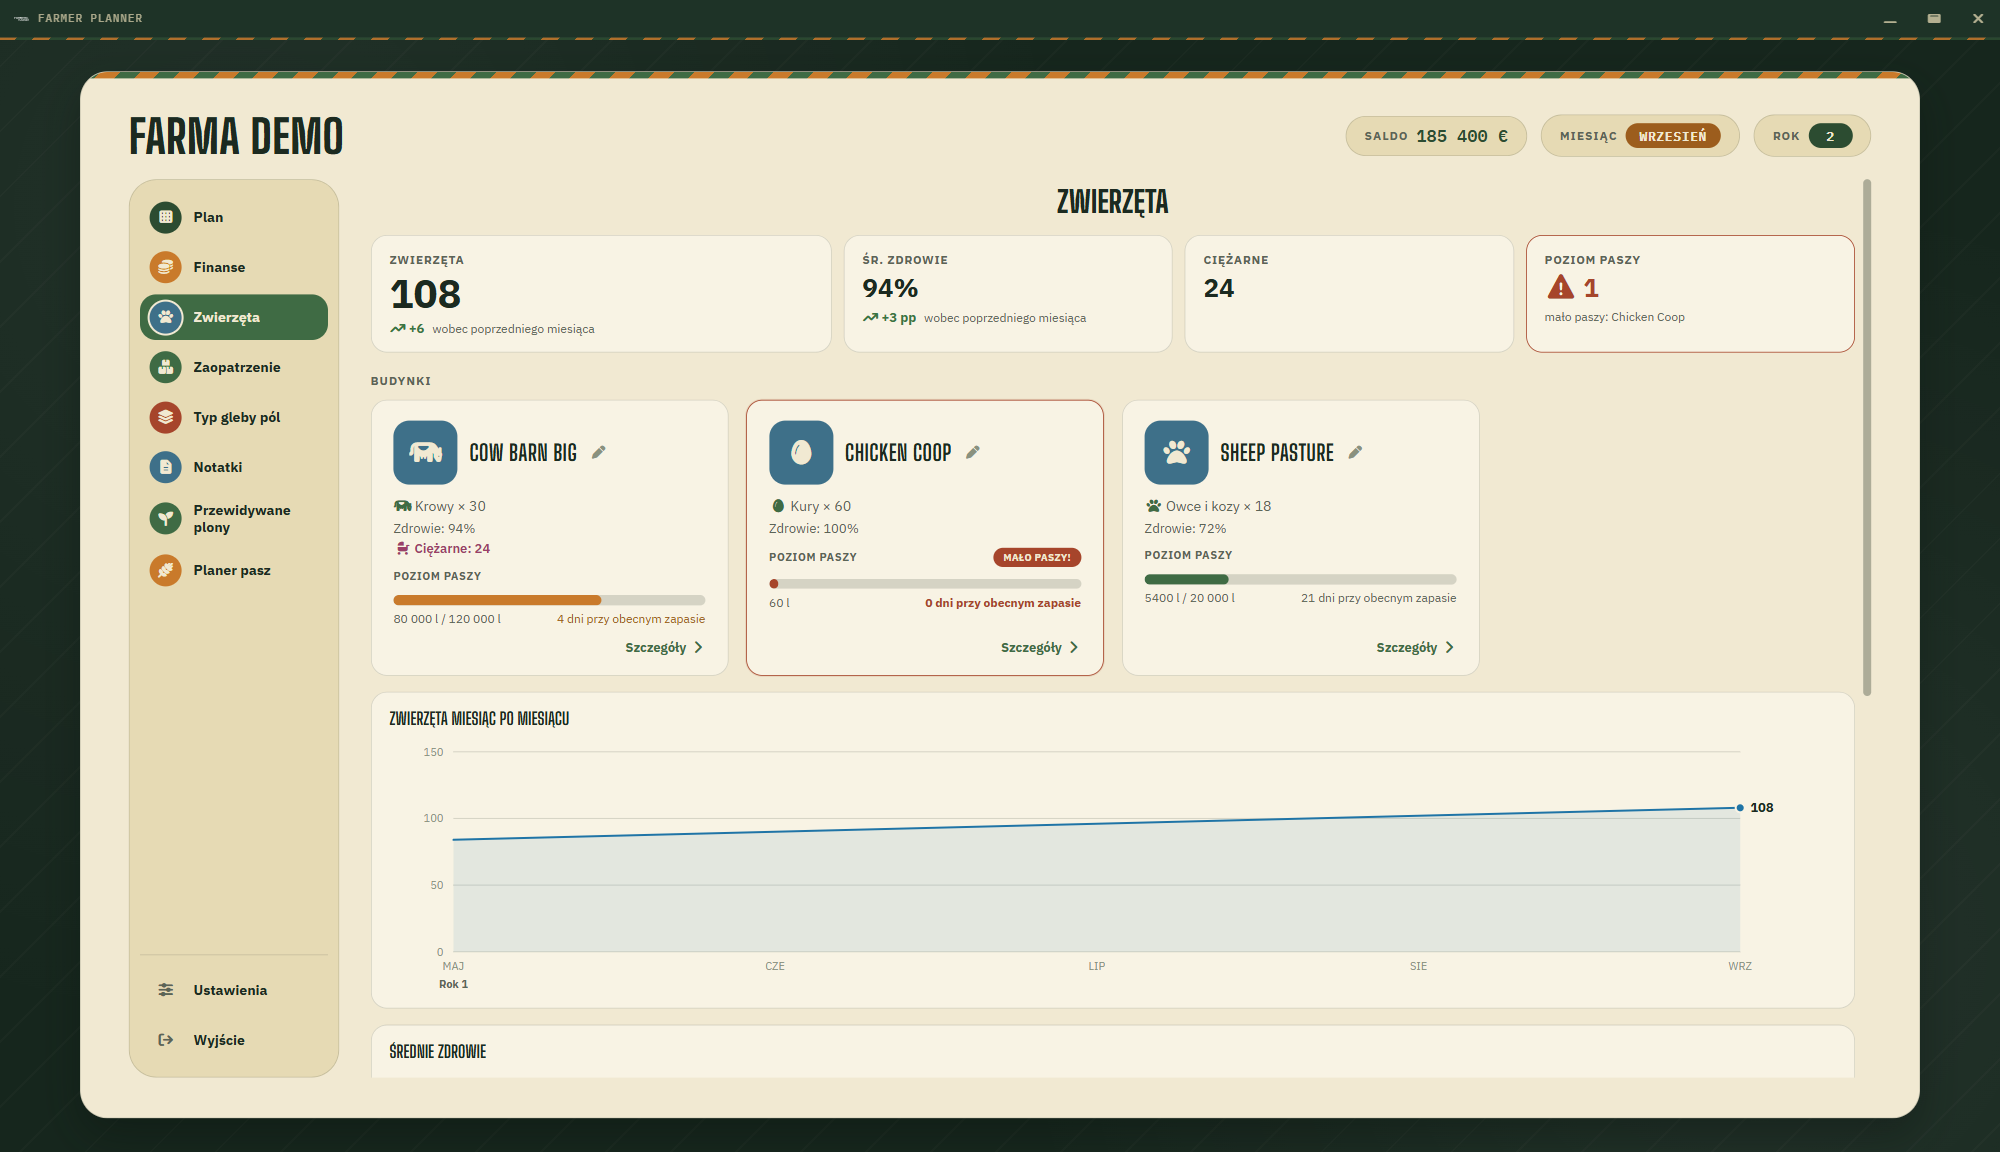
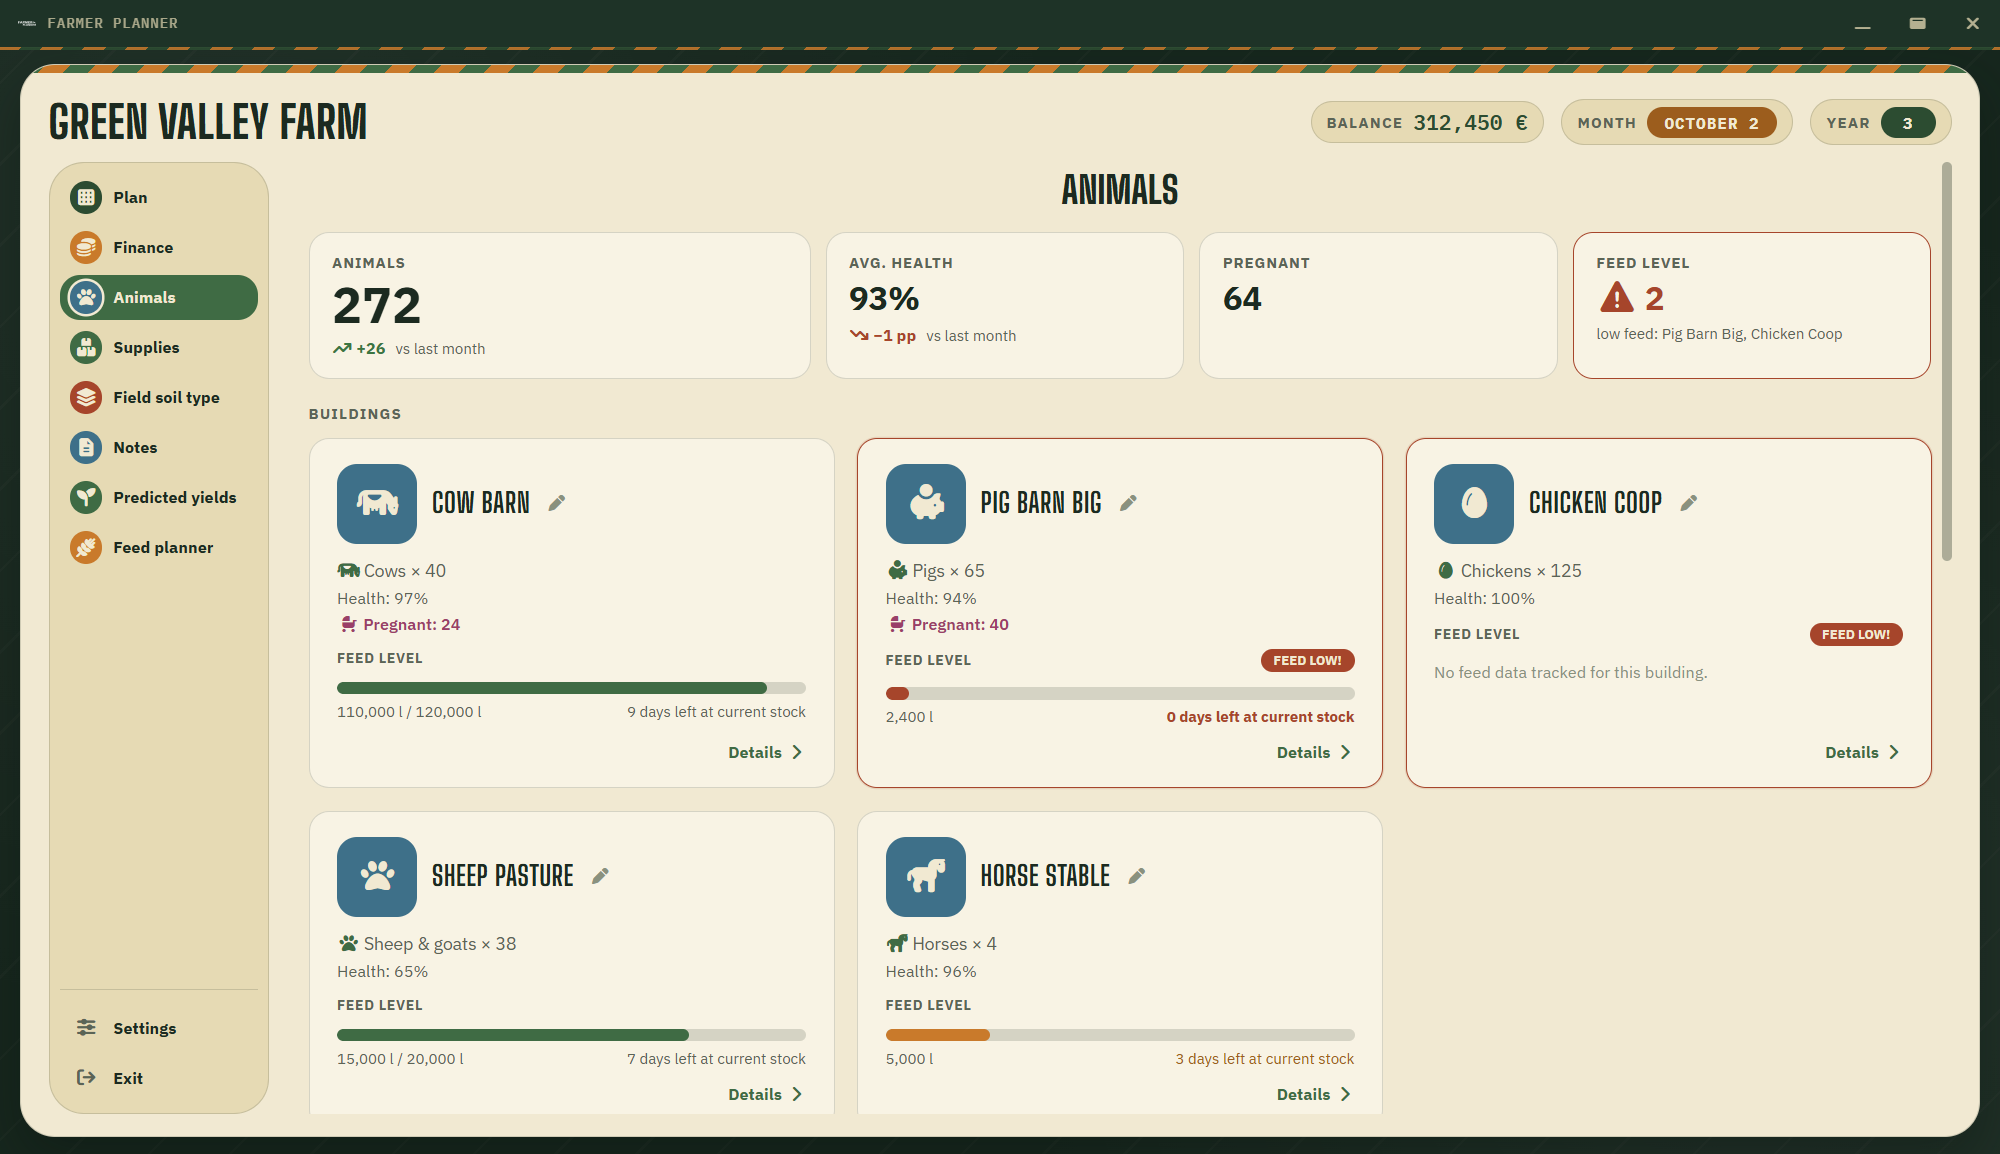
Rewrite the README in the website's layout and link to farmerplanner.pl

diff --git a/README.pl.md b/README.pl.md
@@ -1,21 +1,84 @@
 <p align="center">
-  <img src="Assets/Logo.png" alt="Farmer Planner" width="360">
+  <picture>
+    <source media="(prefers-color-scheme: dark)" srcset="Assets/Logo.svg">
+    <img src="docs/logo-light.svg" alt="Farmer Planner" width="360">
+  </picture>
+</p>
+
+<h3 align="center">Wiesz, czego każde pole potrzebuje w tym miesiącu.</h3>
+
+<p align="center">
+  Darmowy planer sezonów do <b>Farming Simulator 25 (FS25)</b>. Czyta Twój zapis gry i trzyma pola, uprawy,<br>
+  nawozy, zwierzęta i paszę w jednym planie, odświeżanym przy każdym zapisie gry.
 </p>
 
 <p align="center">
-  Planer sezonu dla <b>Farming Simulator 25</b> — pola, uprawy, nawożenie, zwierzęta i pasze w jednym miejscu,<br>
-  zsynchronizowane z Twoim zapisem gry.
+  <a href="https://github.com/WiktorParylak/farmer-planner/releases"><img alt="Pobierz na Windows" src="https://img.shields.io/badge/Pobierz-Windows-C97A2B?style=for-the-badge&logo=windows&logoColor=white"></a>
+  <a href="https://farmerplanner.pl/pl/"><img alt="Strona: farmerplanner.pl" src="https://img.shields.io/badge/Strona-farmerplanner.pl-3F6B44?style=for-the-badge"></a>
+  <a href="https://github.com/WiktorParylak/farmer-planner/releases"><img alt="Najnowsza wersja" src="https://img.shields.io/github/v/release/WiktorParylak/farmer-planner?include_prereleases&style=for-the-badge&label=wersja&color=16261D"></a>
 </p>
 
 <p align="center">
   <a href="README.md">English</a> | <b>Polski</b>
 </p>
 
----
+![Plan sezonu: tabela pól z uprawą, miesiącem siewu, stanem i planem nawożenia](docs/screenshot-plan.png)
 
-![Widok planu](docs/screenshot-plan.png)
+## Jeden plan na całe gospodarstwo
 
-## Funkcje
+**Plan sezonu**
+- Każde pole z powierzchnią, uprawą, miesiącem siewu, stanem, orką lub bezorką, typem gleby i planem nawożenia.
+- Międzyplony na tym samym polu, przed albo po głównej uprawie.
+- Historia sezonów: wrócisz do poprzednich i porównasz.
+- Ostrzeżenia o płodozmianie i podsumowanie hektarów każdej uprawy.
+
+**Zsynchronizowany z grą**
+- Saldo, kredyty, czas gry, maszyny i zwierzęta prosto z zapisu gry.
+- Odświeża się sam przy każdym zapisie gry, także automatycznym.
+- Uprawy i kalendarz siewu czytane z moda mapy.
+- Gleby pól z Precision Farming, prosto z zapisu.
+
+**Narzędzia**
+- Finanse miesiąc po miesiącu i sezon po sezonie.
+- Zaopatrzenie: ile nasion i nawozu kupić na sezon.
+- Przewidywane plony.
+- Notatki przypięte do miesięcy, z tagami i listą do odhaczania.
+
+## Zwierzęta i pasza policzone
+
+Kafelek dla każdego budynku: stado według rasy i wieku, na ile dni starczy paszy, dzienne zapotrzebowanie, produkcja i ciąże. Planer pasz powie, czego brakuje i ile hektarów obsiać, a kalkulator wozu paszowego sprawdzi mieszankę z przepisem TMR z gry.
+
+Działa z AnimalFoodCalculator i EnhancedAnimalSystem i pokazuje obrazki ras z Twoich modów.
+
+![Panel zwierząt: kafelek dla każdego budynku ze stadem, poziomem paszy i produkcją](docs/screenshot-animals.png)
+
+## Pierwsze kroki
+
+1. Pobierz instalator z zakładki [Releases](https://github.com/WiktorParylak/farmer-planner/releases) i uruchom go. Nic więcej nie trzeba instalować.
+2. Kliknij **Dodaj farmę** i wpisz nazwę farmy i mapy.
+3. Otwórz farmę, wejdź w **Ustawienia** i wskaż plik `careerSavegame.xml` swojego zapisu, np.
+   `Dokumenty\My Games\FarmingSimulator2025\savegame1\careerSavegame.xml`.
+4. Włącz automatyczną synchronizację i kliknij **Zapisz i importuj**.
+5. Planuj pola. Planer nadąża za Tobą, kiedy grasz.
+
+Mody są wyszukiwane w folderze `mods` obok zapisu gry, w folderze ustawionym w `gameSettings.xml` gry oraz w kolekcjach FSG Mod Assistanta. Stamtąd automatycznie wczytywane są też obrazki ras. Zwierzęta z podstawowej gry (spakowane w archiwach gry) są pokazywane jako ikony.
+
+## Pytania
+
+**Czy zmienia mój zapis gry?**
+Nie. Farmer Planner tylko czyta pliki gry i nigdy do nich nie zapisuje.
+
+**Jakie mapy i mody obsługuje?**
+Każdą mapę: uprawy i kalendarz są czytane z moda mapy, której używa zapis. Rozumie też Precision Farming, AnimalFoodCalculator, EnhancedAnimalSystem, Animal Package (vanilla edition), Bank And Credit i Enhanced Loan System.
+
+**Gdzie są zapisane moje farmy?**
+W `Dokumenty\Farmer Planner`, więc łatwo je znaleźć, skopiować albo zarchiwizować. Aplikacja umie też wyeksportować i zaimportować kopię zapasową farmy.
+
+**Czy działa w trybie wieloosobowym?**
+Tak. W zapisie z kilkoma farmami wybierasz w Ustawieniach swoją, a planer czyta tylko jej pieniądze, ziemię, zwierzęta i paszę.
+
+<details>
+<summary><b>Pełna lista funkcji</b></summary>
 
 **Plan sezonu**
 - Tabela pól: numer pola (kilka pól można połączyć w jeden wiersz, np. `69-70-71`), hektary, uprawa, miesiąc siewu, stan (do posadzenia / sadzić teraz / posadzone), orka lub bezorka, typ gleby i plan nawożenia dla każdego pola. Kliknięcie nagłówka kolumny sortuje tabelę.
@@ -45,17 +108,13 @@
 - Język polski i angielski.
 - Interaktywny samouczek (ustawienia aplikacji → „Otwórz samouczek”).
 - Kopie zapasowe farm (eksport / import).
-- Discord Rich Presence — pokazuje aktualną farmę na Twoim profilu (można wyłączyć).
+- Discord Rich Presence — pokazuje aktualną farmę na Twoim profilu (wyłączone, dopóki nie pozwolisz).
 
-![Zwierzęta](docs/screenshot-animals.png)
+</details>
 
-## Instalacja
+## Dla programistów
 
-Pobierz instalator dla Windows z zakładki [Releases](https://github.com/WiktorParylak/farmer-planner/releases) i uruchom go — nic więcej nie trzeba instalować.
-
-### Uruchomienie ze źródeł (tylko dla programistów)
-
-Potrzebne tylko, jeśli chcesz zmieniać kod albo samodzielnie zbudować instalator. Wymaga [Node.js](https://nodejs.org/) w wersji 20 lub nowszej.
+Uruchomienie ze źródeł jest potrzebne tylko, jeśli chcesz zmieniać kod albo samodzielnie zbudować instalator. Wymaga [Node.js](https://nodejs.org/) w wersji 20 lub nowszej.
 
 ```bash
 git clone https://github.com/WiktorParylak/farmer-planner.git
@@ -70,24 +129,6 @@ Zbudowanie instalatora (do folderu `dist/`):
 npm run build
 ```
 
-## Pierwsze kroki
-
-1. Kliknij **DODAJ FARMĘ +** i wpisz nazwę farmy i mapy.
-2. Otwórz farmę i kliknij **Ustawienia** na pasku po lewej.
-3. Wskaż swój zapis gry, np.
-   `Dokumenty\My Games\FarmingSimulator2025\savegame1\careerSavegame.xml`
-   i włącz automatyczną synchronizację.
-4. (Opcjonalnie) wybierz folder definicji zwierząt, jeśli Twoja mapa lub mody dodają własne rasy. Uprawy mapy wczytują się automatycznie z zapisu gry; folder mapy wskaż tylko, gdy się nie wczytały (mapa podstawowa, brak moda).
-5. Kliknij **ZAPISZ I IMPORTUJ**.
-
-Mody są wyszukiwane w folderze `mods` obok zapisu gry, w folderze ustawionym w `gameSettings.xml` gry oraz w kolekcjach FSG Mod Assistanta. Stamtąd automatycznie wczytywane są też zdjęcia ras. Zwierzęta z podstawowej gry (spakowane w archiwach gry) są pokazywane jako ikony.
-
-## Gdzie są Twoje dane
-
-Farmy są zapisywane w `Dokumenty\Farmer Planner`, więc łatwo je znaleźć, skopiować lub zsynchronizować. Aplikacja tylko **czyta** pliki gry i nigdy ich nie zmienia.
-
-## Struktura projektu
-
 ```
 src/
   main/        Główny proces Electrona (okno, dialogi, Discord Rich Presence)
@@ -98,14 +139,15 @@ tools/         Skrypty deweloperskie generujące pliki w data/ z plików gry
 docs/          Zrzuty ekranu i notatki
 ```
 
-## Zbudowane z
-
-[Electron](https://www.electronjs.org/), czysty HTML/CSS/JavaScript, [Font Awesome](https://fontawesome.com/).
+Zbudowane z [Electrona](https://www.electronjs.org/), czystego HTML/CSS/JavaScriptu i [Font Awesome](https://fontawesome.com/).
 
 ## Lista zmian
 
 Zobacz [CHANGELOG.md](CHANGELOG.md) (po angielsku) lub zakładkę [Releases](https://github.com/WiktorParylak/farmer-planner/releases).
 
-## Autor
+---
 
-Wiktor Parylak
+<p align="center">
+  Autor: Wiktor Parylak · <a href="https://farmerplanner.pl/pl/">farmerplanner.pl</a><br>
+  <sub>Projekt niezwiązany z GIANTS Software. Farming Simulator jest znakiem towarowym GIANTS Software GmbH.</sub>
+</p>

diff --git a/README.md b/README.md
@@ -1,21 +1,84 @@
 <p align="center">
-  <img src="Assets/Logo.png" alt="Farmer Planner" width="360">
+  <picture>
+    <source media="(prefers-color-scheme: dark)" srcset="Assets/Logo.svg">
+    <img src="docs/logo-light.svg" alt="Farmer Planner" width="360">
+  </picture>
+</p>
+
+<h3 align="center">Know what every field needs this month.</h3>
+
+<p align="center">
+  A free season planner for <b>Farming Simulator 25 (FS25)</b>. It reads your savegame and keeps fields, crops,<br>
+  fertilizer, animals and feed in one plan, updated every time the game saves.
 </p>
 
 <p align="center">
-  A season planner for <b>Farming Simulator 25</b> — fields, crops, fertilization, animals and feed in one place,<br>
-  kept in sync with your savegame.
+  <a href="https://github.com/WiktorParylak/farmer-planner/releases"><img alt="Download for Windows" src="https://img.shields.io/badge/Download-Windows-C97A2B?style=for-the-badge&logo=windows&logoColor=white"></a>
+  <a href="https://farmerplanner.pl"><img alt="Website: farmerplanner.pl" src="https://img.shields.io/badge/Website-farmerplanner.pl-3F6B44?style=for-the-badge"></a>
+  <a href="https://github.com/WiktorParylak/farmer-planner/releases"><img alt="Latest version" src="https://img.shields.io/github/v/release/WiktorParylak/farmer-planner?include_prereleases&style=for-the-badge&label=version&color=16261D"></a>
 </p>
 
 <p align="center">
   <b>English</b> | <a href="README.pl.md">Polski</a>
 </p>
 
----
+![The season plan: a table of fields with crop, sowing month, state and fertilization plan](docs/screenshot-plan.png)
 
-![Plan view](docs/screenshot-plan.png)
+## One plan for the whole farm
 
-## Features
+**Season plan**
+- Every field with its area, crop, sowing month, state, ploughing or no-till, soil type and fertilization plan.
+- Catch crops on the same field, before or after the main crop.
+- Past seasons kept, so you can step back and compare.
+- Crop rotation warnings and a summary of hectares per crop.
+
+**Synced with your game**
+- Balance, loans, playtime, equipment and animals read from your savegame.
+- Refreshes on its own every time the game saves, autosave included.
+- The map's crops and sowing calendar read from the map mod.
+- Field soils from Precision Farming, straight from the save.
+
+**Tools**
+- Finance month by month and season by season.
+- Supplies: how much seed and fertilizer to buy this season.
+- Predicted yields.
+- Notes pinned to months, with tags and a checklist.
+
+## Animals and feed, worked out
+
+One tile per barn: the herd by breed and age, how many days the feed lasts, daily needs, output and pregnancies. The feed planner tells you what's missing and how many hectares to sow, and the mixer wagon calculator checks your mix against the game's TMR recipe.
+
+Works with AnimalFoodCalculator and EnhancedAnimalSystem, and shows breed pictures from your mods.
+
+![The animals panel: one tile per barn with herd, feed level and output](docs/screenshot-animals.png)
+
+## Getting started
+
+1. Download the installer from [Releases](https://github.com/WiktorParylak/farmer-planner/releases) and run it. Nothing else needs to be installed.
+2. Click **Add farm** and enter the farm and map name.
+3. Open the farm, go to **Settings** and point it to your savegame's `careerSavegame.xml`, e.g.
+   `Documents\My Games\FarmingSimulator2025\savegame1\careerSavegame.xml`.
+4. Turn on auto-sync and click **Save & import**.
+5. Plan your fields. The planner keeps up while you play.
+
+Mods are looked up in the `mods` folder next to your savegame, in the folder set in the game's `gameSettings.xml`, and in your FSG Mod Assistant collections. Breed pictures are loaded automatically from there. Base-game animals (packed inside the game's archives) are shown as icons.
+
+## Questions
+
+**Does it change my savegame?**
+No. Farmer Planner only reads game files and never writes to them.
+
+**Which maps and mods does it support?**
+Any map: the crops and calendar are read from the map mod your savegame uses. It also understands Precision Farming, AnimalFoodCalculator, EnhancedAnimalSystem, Animal Package (vanilla edition), Bank And Credit and Enhanced Loan System.
+
+**Where are my farms stored?**
+In `Documents\Farmer Planner`, so they're easy to find, copy or back up. The app can also export and import a farm backup.
+
+**Does it work in multiplayer?**
+Yes. In a save with several farms you choose your own farm in Settings, and the planner reads only its money, land, animals and feed.
+
+<details>
+<summary><b>Full feature list</b></summary>
 
 **Season plan**
 - Field table: field number (several fields can be combined into one row, e.g. `69-70-71`), hectares, crop, sowing month, state (to plant / plant now / planted), plowed or no-till, soil type and a per-field fertilization plan. Click a column header to sort.
@@ -45,17 +108,13 @@
 - English and Polish.
 - Interactive tutorial (app settings → "Open tutorial").
 - Farm backups (export / import).
-- Discord Rich Presence — shows your current farm on your profile (can be turned off).
+- Discord Rich Presence — shows your current farm on your profile (off until you allow it).
 
-![Animals](docs/screenshot-animals.png)
+</details>
 
-## Installation
+## For developers
 
-Download the Windows installer from the [Releases](https://github.com/WiktorParylak/farmer-planner/releases) page and run it — nothing else needs to be installed.
-
-### Running from source (developers only)
-
-Only needed if you want to change the code or build the installer yourself. Requires [Node.js](https://nodejs.org/) 20 or newer.
+Running from source is only needed if you want to change the code or build the installer yourself. Requires [Node.js](https://nodejs.org/) 20 or newer.
 
 ```bash
 git clone https://github.com/WiktorParylak/farmer-planner.git
@@ -70,24 +129,6 @@ Build the installer (into `dist/`):
 npm run build
 ```
 
-## Getting started
-
-1. Click **ADD FARM +** and enter the farm and map name.
-2. Open the farm and click **Settings** in the left sidebar.
-3. Point it to your savegame, e.g.
-   `Documents\My Games\FarmingSimulator2025\savegame1\careerSavegame.xml`
-   and turn on auto-sync.
-4. (Optional) pick the animal definitions folder if your map or mods add their own breeds. The map's crops are read automatically from the savegame; pick a map folder only if they aren't (base-game map, mod not found).
-5. Click **SAVE & IMPORT**.
-
-Mods are looked up in the `mods` folder next to your savegame, in the folder set in the game's `gameSettings.xml`, and in your FSG Mod Assistant collections. Breed pictures are loaded automatically from there. Base-game animals (packed inside the game's archives) are shown as icons.
-
-## Where your data lives
-
-Farms are stored in `Documents\Farmer Planner`, so they're easy to find, copy or sync. The app only **reads** game files and never modifies them.
-
-## Project structure
-
 ```
 src/
   main/        Electron main process (window, dialogs, Discord Rich Presence)
@@ -98,14 +139,15 @@ tools/         Dev scripts that regenerate the files in data/ from game files
 docs/          Screenshots and notes
 ```
 
-## Built with
-
-[Electron](https://www.electronjs.org/), plain HTML/CSS/JavaScript, [Font Awesome](https://fontawesome.com/).
+Built with [Electron](https://www.electronjs.org/), plain HTML/CSS/JavaScript and [Font Awesome](https://fontawesome.com/).
 
 ## Changelog
 
 See [CHANGELOG.md](CHANGELOG.md) or the [Releases](https://github.com/WiktorParylak/farmer-planner/releases) page.
 
-## Author
+---
 
-Wiktor Parylak
+<p align="center">
+  Made by Wiktor Parylak · <a href="https://farmerplanner.pl">farmerplanner.pl</a><br>
+  <sub>Not affiliated with GIANTS Software. Farming Simulator is a trademark of GIANTS Software GmbH.</sub>
+</p>

diff --git a/CLAUDE.md b/CLAUDE.md
@@ -120,6 +120,13 @@ docs/                          screenshoty, propozycje-funkcji.txt
 Farma testowa `DEV – farma testowa` (id `1000000000001`) jest generowana od zera przez `src/renderer/dev-farm.js` — bez savegame'u, nie jest kopią żadnej farmy. Włącza się w ustawieniach aplikacji (zębatka na ekranie startowym → *Deweloper*, widoczne tylko przy `npm start`); *Odtwórz farmę testową* stawia ją od nowa, wyłączenie usuwa. Nowy stan do przetestowania → dopisz go w `dev-farm.js`. Testuj na niej, nie na prawdziwych farmach.
 Testowanie bez gry na drugim komputerze: skopiuj folder farmy z `Documents\Farmer Planner` (lub zrób eksport kopii zapasowej farmy w aplikacji) i, jeśli potrzebny jest sync, sam folder savegame'u.
 
+## Strona www
+
+- **https://farmerplanner.pl** — strona produktu w osobnym, **prywatnym** repo `WiktorParylak/farmer-planner-website`, sklonowanym obok tego (`PROJEKTY\farmer-planner-website`). Hosting SEOHOST, deploy przez GitHub Actions (FTPS) przy pushu na `main` tamtego repo. Szczegóły w jego CLAUDE.md.
+- Screenshoty na stronie i w README są **angielskie**, robione z farmy testowej (`dev-farm.js`, przemianowanej na „Green Valley Farm”) skryptem `npm run screenshots` w repo strony. Po zmianach w UI odśwież je tam i skopiuj PNG do `docs/` tutaj.
+- README (EN i PL) ma ten sam układ i teksty co strona; zmiany funkcji opisuj w obu miejscach. Logo w README: `docs/logo-light.svg` (ciemne, jasny motyw GitHuba) i `Assets/Logo.svg` (białe, ciemny motyw).
+- Repo na GitHubie ma ustawione Website = farmerplanner.pl, opis i tematy (fs25, farming-simulator-25…).
+
 ## Konwencje
 
 - Styl kodu: dopasuj się do otoczenia w `renderer.js` (4 spacje, `function`, bez klas/modułów ES, DOM przez `document.getElementById`).
